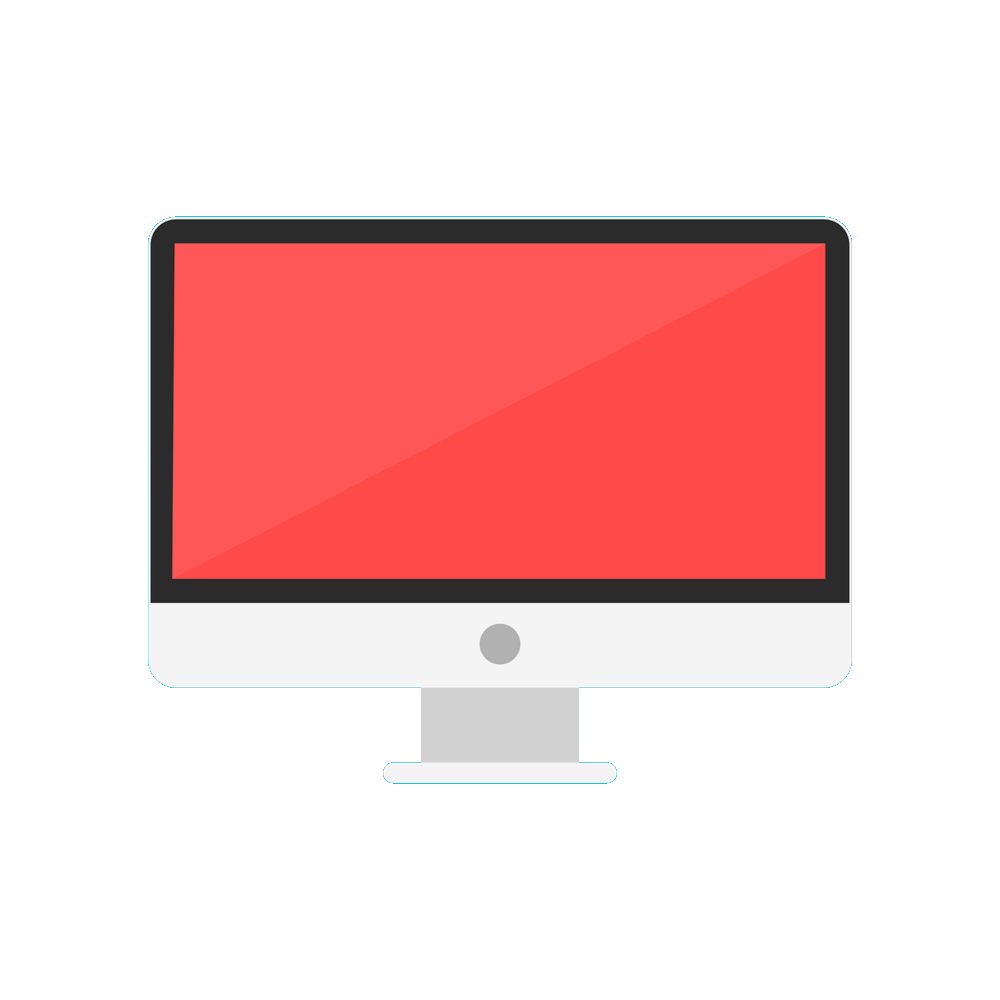
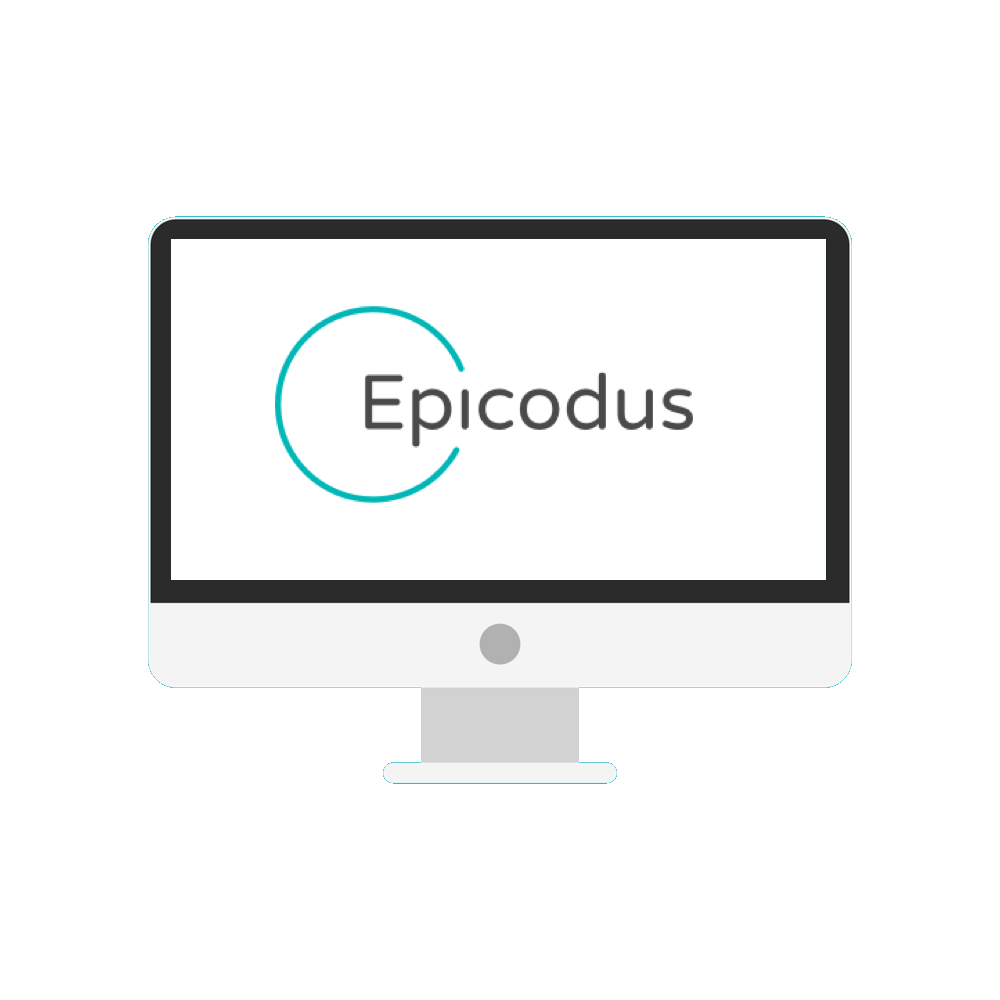
add enemy sprite and change computer background.

Changed region(s): [[0.155, 0.217, 0.837, 0.589]]

diff --git a/src/app/grid/grid.component.ts b/src/app/grid/grid.component.ts
@@ -75,8 +75,9 @@ export class GridComponent {
       styles['background-size'] = '100% 100%';
     }
     if (tile.enemy) {
-      styles['background-image'] = 'url(../../assets/image/dot.svg)';
-      styles['background-size'] = '100% 100%';
+      styles['background-image'] = 'url(../../assets/image/teacher.png)';
+      styles['background-size'] = '1152px 768px';
+      styles['background-position'] = '672px 384px';
     }
     return styles;
   }
